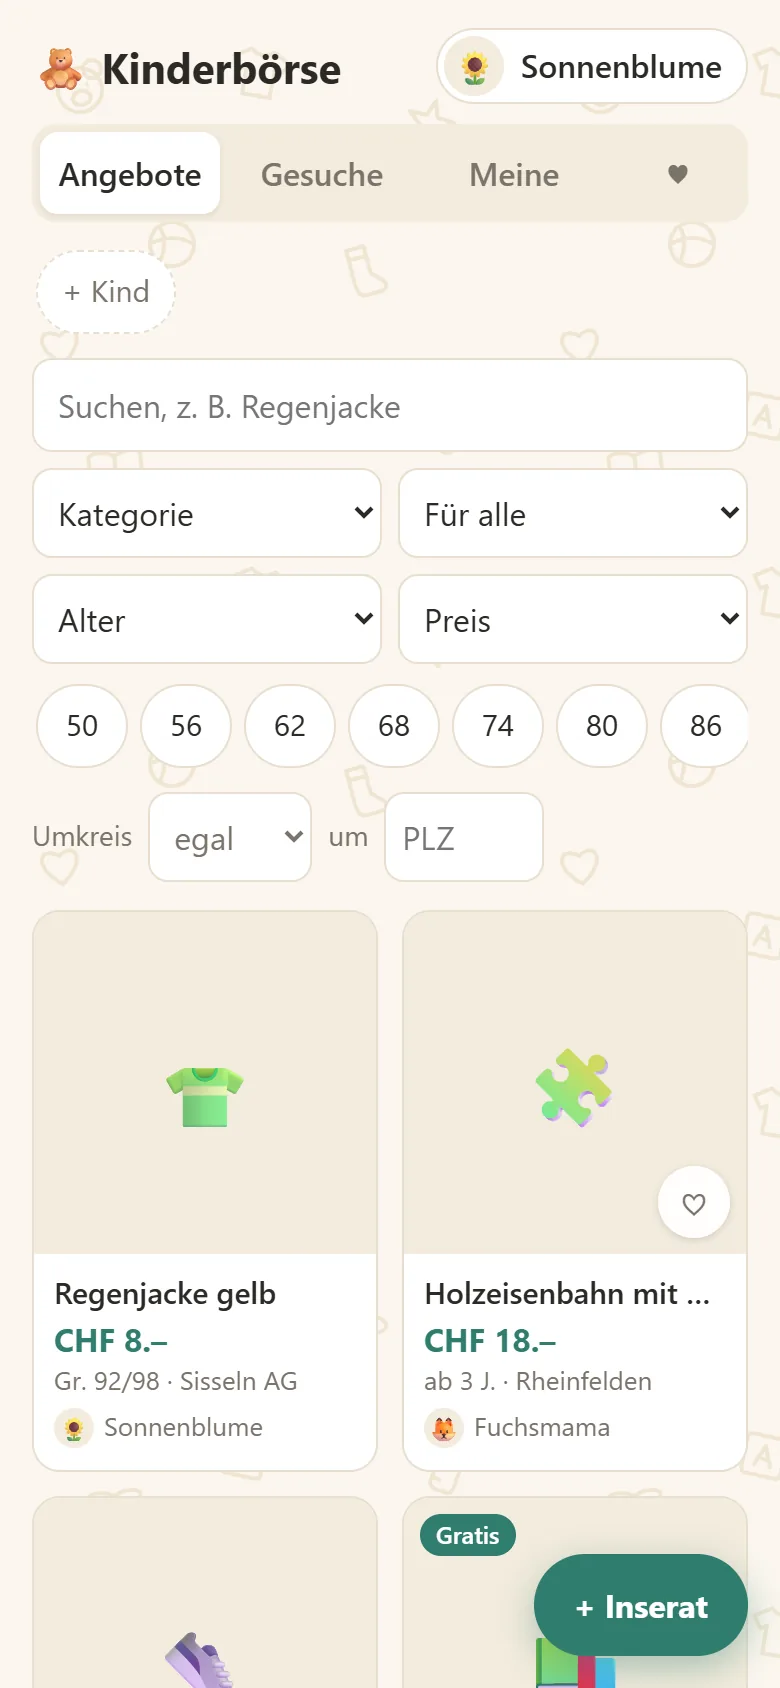
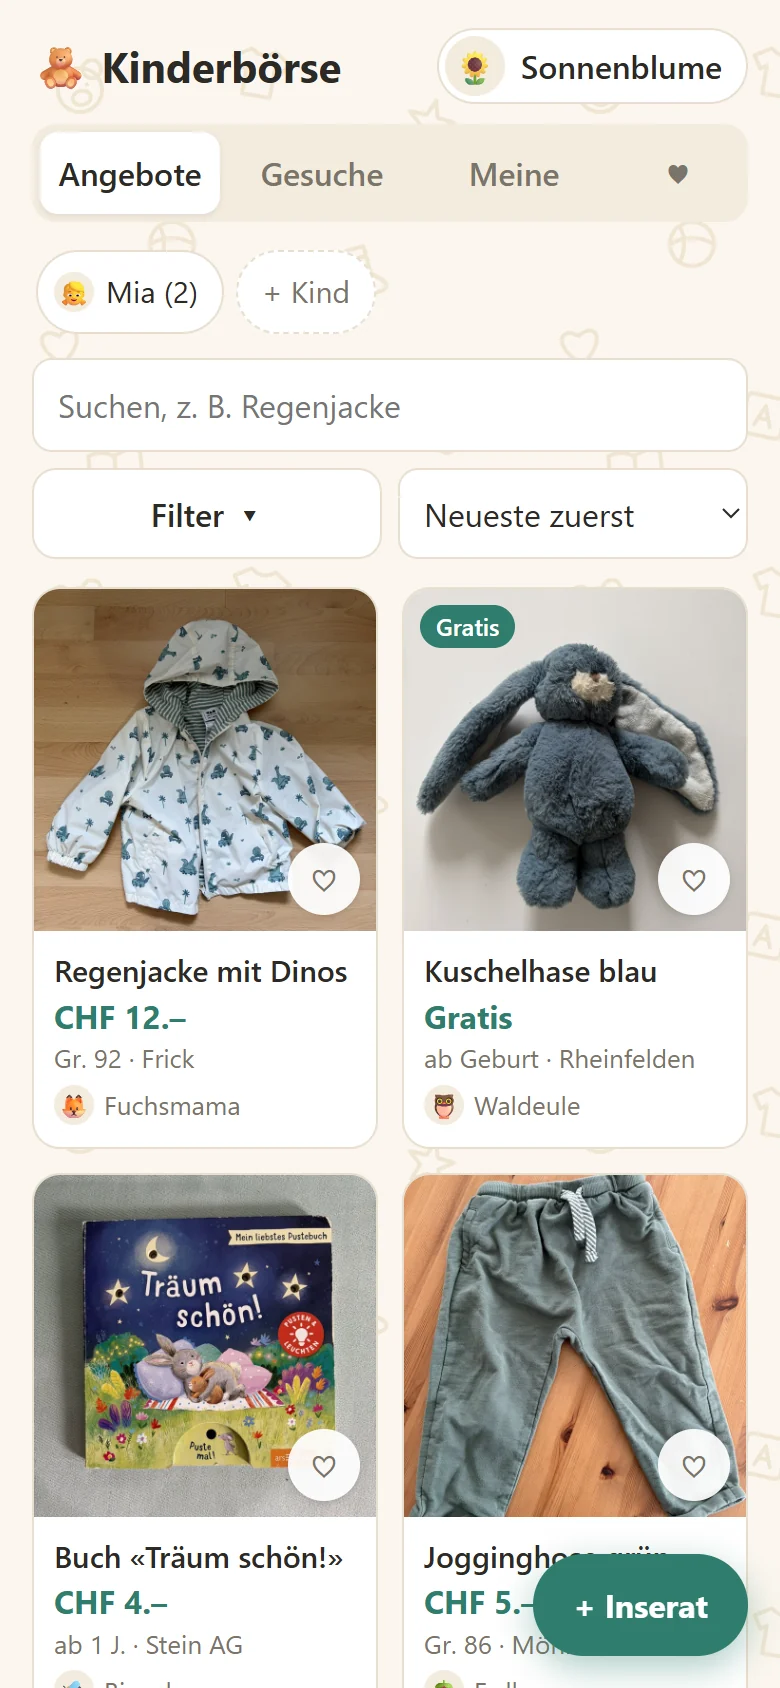
KI-Agenten: Praxisfall Kinderbörse mit Screenshot und Kennzahl 71 von 529 (DE/FR/EN)
Neuer Screenshot mit Fotos statt Symbolen (Beispieldaten), auch im Portfolio.

diff --git a/fr/ki-agenten-automatisierung/index.html b/fr/ki-agenten-automatisierung/index.html
@@ -235,6 +235,19 @@
   .package-list li{ color:var(--sec-ink); font-size:.94rem; font-weight:300; padding-left:22px; position:relative; line-height:1.55; }
   .package-list li::before{ content:"—"; position:absolute; left:0; color:var(--sec-gold-deep); }
   .package-scope{ margin:0; font-size:.82rem; color:var(--sec-muted); font-weight:300; line-height:1.6; }
+  .case-grid{ display:grid; grid-template-columns:220px minmax(0,640px); gap:clamp(28px,5vw,60px); align-items:center; }
+  @media (max-width:760px){ .case-grid{grid-template-columns:minmax(0,1fr); justify-items:center;} .case-grid .package-card{justify-self:stretch;} }
+  .phone{
+    width:100%; max-width:220px; aspect-ratio:390/780; border:7px solid #18150f; border-radius:30px; overflow:hidden; background:#fbf6ee;
+    box-shadow:0 24px 50px -18px rgba(0,0,0,.5);
+  }
+  .phone img{ display:block; width:100%; height:100%; object-fit:cover; object-position:top center; }
+  .case-stat{ display:flex; flex-direction:column; gap:12px; padding-bottom:20px; border-bottom:1px solid var(--sec-line); }
+  .case-stat .big{ font-family:var(--font-display); font-size:clamp(2.6rem,7vw,3.4rem); font-weight:700; line-height:1; color:var(--sec-gold-deep); letter-spacing:-.01em; }
+  .case-stat .big small{ font-size:.42em; font-weight:600; color:var(--sec-muted); letter-spacing:0; }
+  .case-stat p{ margin:0; font-size:.98rem; line-height:1.5; color:var(--sec-ink); font-weight:300; }
+  .case-bar{ height:6px; border-radius:var(--r-pill); background:var(--sec-alt-soft); overflow:hidden; }
+  .case-bar span{ display:block; width:13.4%; height:100%; border-radius:var(--r-pill); background:linear-gradient(90deg,var(--sec-gold-deep),var(--sec-gold)); }
   .package-card .btn-primary, .package-card .btn-secondary{ align-self:flex-start; }
 
   /* ---------- Fit / "Pour qui" grid ---------- */
@@ -633,13 +646,21 @@
         <span class="eyebrow">Cas concret</span>
         <h2>Kinderbörse : de l'ordre dans un groupe WhatsApp de 529 membres</h2>
       </div>
-      <div class="package-card reveal d1" style="max-width:640px;">
-        <ul class="package-list">
-          <li><strong>Situation de départ :</strong> Une bourse aux vêtements d'enfants fonctionnait dans une discussion WhatsApp. Les offres se perdaient dans le fil, personne ne trouvait ce qu'il cherchait.</li>
-          <li><strong>Mise en œuvre :</strong> Une application web avec annonces, filtres par taille et par catégorie, et profils d'enfants. Accès uniquement avec le code du groupe.</li>
-          <li><strong>Résultat :</strong> 42 annonces et 71 utilisatrices dans les trois premiers jours après le lancement, le 6 octobre 2026.</li>
-        </ul>
-        <p class="package-scope">Conçue et développée par mes soins, gratuitement pour le groupe.</p>
+      <div class="case-grid">
+        <div class="phone reveal d1"><img src="../../images/referenzen/kinderboerse-mobile.webp" width="780" height="1688" alt="La Kinderbörse sur smartphone : filtres de recherche et annonces (données d’exemple)" loading="lazy"></div>
+        <div class="package-card reveal d2">
+          <div class="case-stat">
+            <span class="big">71 <small>sur 529</small></span>
+            <div class="case-bar" role="img" aria-label="71 membres sur 529, 13 pour cent"><span></span></div>
+            <p><strong>membres inscrites dans les trois premiers jours</strong> – 13&nbsp;% du groupe.</p>
+          </div>
+          <ul class="package-list">
+            <li><strong>Situation de départ :</strong> Une bourse aux vêtements d'enfants fonctionnait dans une discussion WhatsApp. Les offres se perdaient dans le fil, personne ne trouvait ce qu'il cherchait.</li>
+            <li><strong>Mise en œuvre :</strong> Une application web avec annonces, filtres par taille et par catégorie, et profils d'enfants. Accès uniquement avec le code du groupe.</li>
+            <li><strong>Résultat :</strong> lancement le 6 octobre 2026. Trois jours plus tard, 71 des 529 membres étaient inscrites et 42 annonces en ligne.</li>
+          </ul>
+          <p class="package-scope">Conçue et développée par mes soins, gratuitement pour le groupe.</p>
+        </div>
       </div>
     </div>
   </section>

diff --git a/ki-agenten-automatisierung/index.html b/ki-agenten-automatisierung/index.html
@@ -235,6 +235,19 @@
   .package-list li{ color:var(--sec-ink); font-size:.94rem; font-weight:300; padding-left:22px; position:relative; line-height:1.55; }
   .package-list li::before{ content:"—"; position:absolute; left:0; color:var(--sec-gold-deep); }
   .package-scope{ margin:0; font-size:.82rem; color:var(--sec-muted); font-weight:300; line-height:1.6; }
+  .case-grid{ display:grid; grid-template-columns:220px minmax(0,640px); gap:clamp(28px,5vw,60px); align-items:center; }
+  @media (max-width:760px){ .case-grid{grid-template-columns:minmax(0,1fr); justify-items:center;} .case-grid .package-card{justify-self:stretch;} }
+  .phone{
+    width:100%; max-width:220px; aspect-ratio:390/780; border:7px solid #18150f; border-radius:30px; overflow:hidden; background:#fbf6ee;
+    box-shadow:0 24px 50px -18px rgba(0,0,0,.5);
+  }
+  .phone img{ display:block; width:100%; height:100%; object-fit:cover; object-position:top center; }
+  .case-stat{ display:flex; flex-direction:column; gap:12px; padding-bottom:20px; border-bottom:1px solid var(--sec-line); }
+  .case-stat .big{ font-family:var(--font-display); font-size:clamp(2.6rem,7vw,3.4rem); font-weight:700; line-height:1; color:var(--sec-gold-deep); letter-spacing:-.01em; }
+  .case-stat .big small{ font-size:.42em; font-weight:600; color:var(--sec-muted); letter-spacing:0; }
+  .case-stat p{ margin:0; font-size:.98rem; line-height:1.5; color:var(--sec-ink); font-weight:300; }
+  .case-bar{ height:6px; border-radius:var(--r-pill); background:var(--sec-alt-soft); overflow:hidden; }
+  .case-bar span{ display:block; width:13.4%; height:100%; border-radius:var(--r-pill); background:linear-gradient(90deg,var(--sec-gold-deep),var(--sec-gold)); }
   .package-card .btn-primary, .package-card .btn-secondary{ align-self:flex-start; }
 
   /* ---------- Fit / "Für wen" grid ---------- */
@@ -633,13 +646,21 @@
         <span class="eyebrow">Aus der Praxis</span>
         <h2>Kinderbörse: Ordnung in einer WhatsApp-Gruppe mit 529 Mitgliedern</h2>
       </div>
-      <div class="package-card reveal d1" style="max-width:640px;">
-        <ul class="package-list">
-          <li><strong>Ausgangslage:</strong> Eine Kinderkleiderbörse lief über einen WhatsApp-Chat. Angebote gingen im Verlauf unter, niemand fand, was er suchte.</li>
-          <li><strong>Umsetzung:</strong> Eine Web-App mit Inseraten, Filtern nach Grösse und Kategorie sowie Kinderprofilen. Zugang nur mit Gruppencode.</li>
-          <li><strong>Ergebnis:</strong> 42 Inserate und 71 Nutzerinnen in den ersten drei Tagen nach dem Start am 6. Oktober 2026.</li>
-        </ul>
-        <p class="package-scope">Von mir konzipiert und gebaut, für die Gruppe kostenlos.</p>
+      <div class="case-grid">
+        <div class="phone reveal d1"><img src="../images/referenzen/kinderboerse-mobile.webp" width="780" height="1688" alt="Kinderbörse auf dem Smartphone: Suchfilter und Inserate (Beispieldaten)" loading="lazy"></div>
+        <div class="package-card reveal d2">
+          <div class="case-stat">
+            <span class="big">71 <small>von 529</small></span>
+            <div class="case-bar" role="img" aria-label="71 von 529 Mitgliedern, 13 Prozent"><span></span></div>
+            <p><strong>Mitglieder haben sich in den ersten drei Tagen angemeldet</strong> – 13&nbsp;% der Gruppe.</p>
+          </div>
+          <ul class="package-list">
+            <li><strong>Ausgangslage:</strong> Eine Kinderkleiderbörse lief über einen WhatsApp-Chat. Angebote gingen im Verlauf unter, niemand fand, was er suchte.</li>
+            <li><strong>Umsetzung:</strong> Eine Web-App mit Inseraten, Filtern nach Grösse und Kategorie sowie Kinderprofilen. Zugang nur mit Gruppencode.</li>
+            <li><strong>Ergebnis:</strong> Start am 6. Oktober 2026. Drei Tage später waren 71 der 529 Mitglieder angemeldet und 42 Inserate online.</li>
+          </ul>
+          <p class="package-scope">Von mir konzipiert und gebaut, für die Gruppe kostenlos.</p>
+        </div>
       </div>
     </div>
   </section>

diff --git a/en/ki-agenten-automatisierung/index.html b/en/ki-agenten-automatisierung/index.html
@@ -235,6 +235,19 @@
   .package-list li{ color:var(--sec-ink); font-size:.94rem; font-weight:300; padding-left:22px; position:relative; line-height:1.55; }
   .package-list li::before{ content:"—"; position:absolute; left:0; color:var(--sec-gold-deep); }
   .package-scope{ margin:0; font-size:.82rem; color:var(--sec-muted); font-weight:300; line-height:1.6; }
+  .case-grid{ display:grid; grid-template-columns:220px minmax(0,640px); gap:clamp(28px,5vw,60px); align-items:center; }
+  @media (max-width:760px){ .case-grid{grid-template-columns:minmax(0,1fr); justify-items:center;} .case-grid .package-card{justify-self:stretch;} }
+  .phone{
+    width:100%; max-width:220px; aspect-ratio:390/780; border:7px solid #18150f; border-radius:30px; overflow:hidden; background:#fbf6ee;
+    box-shadow:0 24px 50px -18px rgba(0,0,0,.5);
+  }
+  .phone img{ display:block; width:100%; height:100%; object-fit:cover; object-position:top center; }
+  .case-stat{ display:flex; flex-direction:column; gap:12px; padding-bottom:20px; border-bottom:1px solid var(--sec-line); }
+  .case-stat .big{ font-family:var(--font-display); font-size:clamp(2.6rem,7vw,3.4rem); font-weight:700; line-height:1; color:var(--sec-gold-deep); letter-spacing:-.01em; }
+  .case-stat .big small{ font-size:.42em; font-weight:600; color:var(--sec-muted); letter-spacing:0; }
+  .case-stat p{ margin:0; font-size:.98rem; line-height:1.5; color:var(--sec-ink); font-weight:300; }
+  .case-bar{ height:6px; border-radius:var(--r-pill); background:var(--sec-alt-soft); overflow:hidden; }
+  .case-bar span{ display:block; width:13.4%; height:100%; border-radius:var(--r-pill); background:linear-gradient(90deg,var(--sec-gold-deep),var(--sec-gold)); }
   .package-card .btn-primary, .package-card .btn-secondary{ align-self:flex-start; }
 
   /* ---------- Fit grid ---------- */
@@ -633,13 +646,21 @@
         <span class="eyebrow">From practice</span>
         <h2>Kinderbörse: bringing order to a WhatsApp group with 529 members</h2>
       </div>
-      <div class="package-card reveal d1" style="max-width:640px;">
-        <ul class="package-list">
-          <li><strong>Starting point:</strong> A children's clothing exchange ran in a WhatsApp chat. Offers got buried in the thread, and nobody found what they were looking for.</li>
-          <li><strong>Implementation:</strong> A web app with listings, filters by size and category, and children's profiles. Access with the group code only.</li>
-          <li><strong>Result:</strong> 42 listings and 71 users in the first three days after launch on 6 October 2026.</li>
-        </ul>
-        <p class="package-scope">Designed and built by me, free of charge for the group.</p>
+      <div class="case-grid">
+        <div class="phone reveal d1"><img src="../../images/referenzen/kinderboerse-mobile.webp" width="780" height="1688" alt="Kinderbörse on a phone: search filters and listings (sample data)" loading="lazy"></div>
+        <div class="package-card reveal d2">
+          <div class="case-stat">
+            <span class="big">71 <small>of 529</small></span>
+            <div class="case-bar" role="img" aria-label="71 of 529 members, 13 percent"><span></span></div>
+            <p><strong>members signed up in the first three days</strong> – 13% of the group.</p>
+          </div>
+          <ul class="package-list">
+            <li><strong>Starting point:</strong> A children's clothing exchange ran in a WhatsApp chat. Offers got buried in the thread, and nobody found what they were looking for.</li>
+            <li><strong>Implementation:</strong> A web app with listings, filters by size and category, and children's profiles. Access with the group code only.</li>
+            <li><strong>Result:</strong> launched on 6 October 2026. Three days later, 71 of the 529 members had signed up and 42 listings were online.</li>
+          </ul>
+          <p class="package-scope">Designed and built by me, free of charge for the group.</p>
+        </div>
       </div>
     </div>
   </section>
